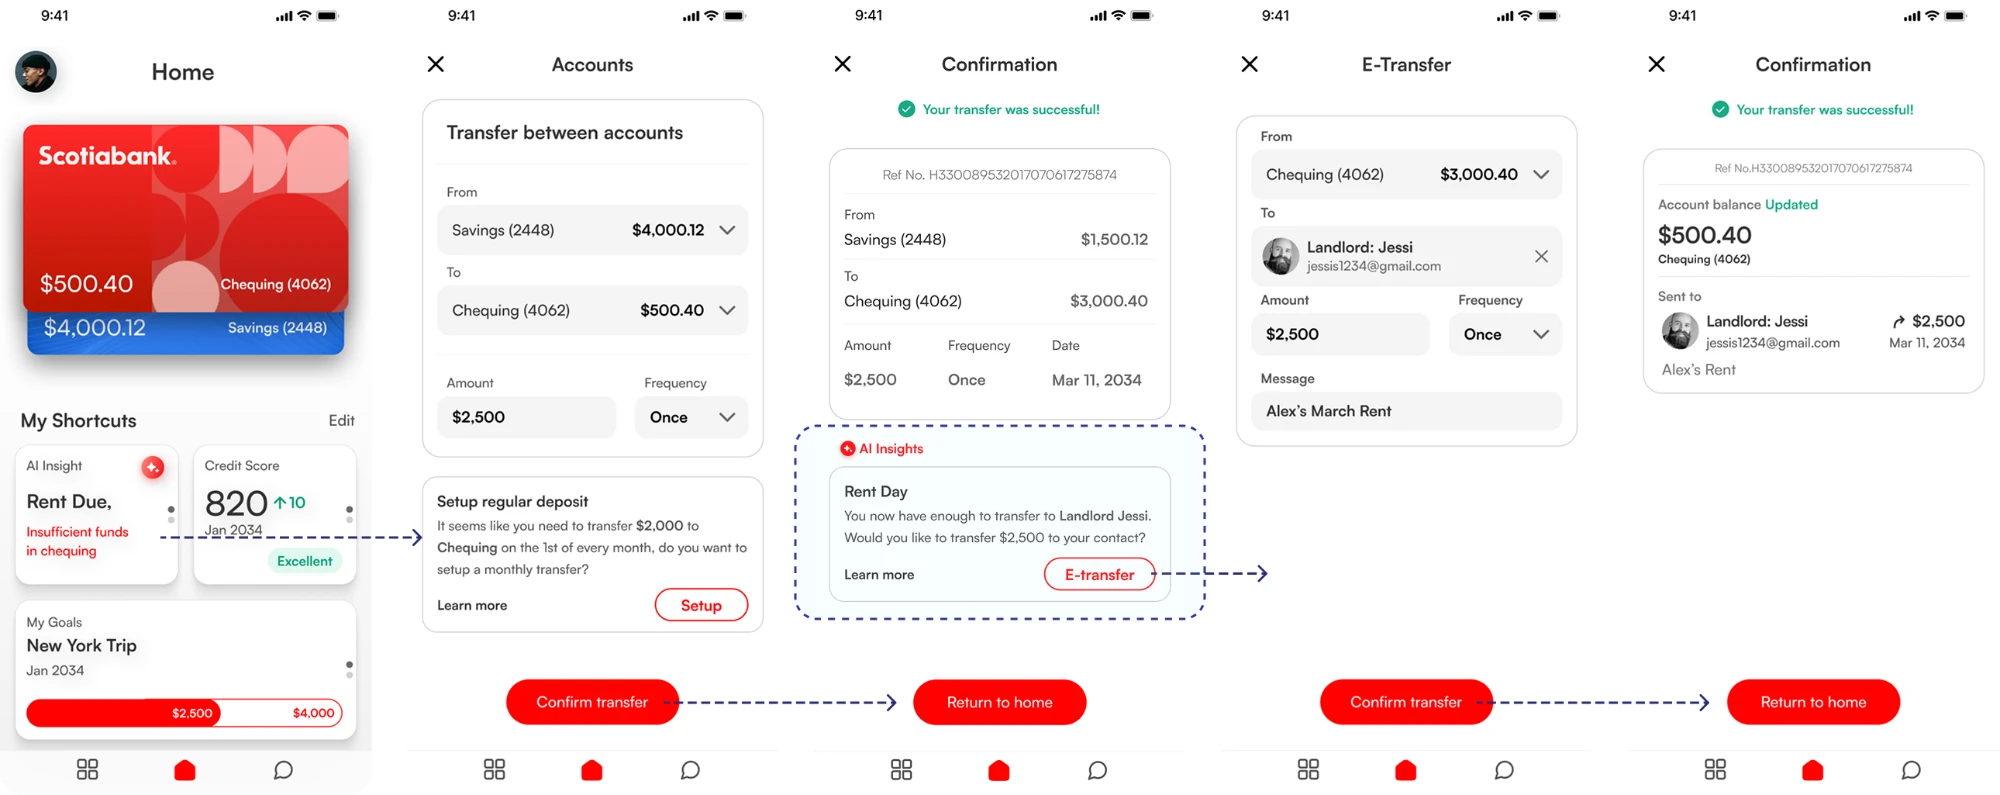
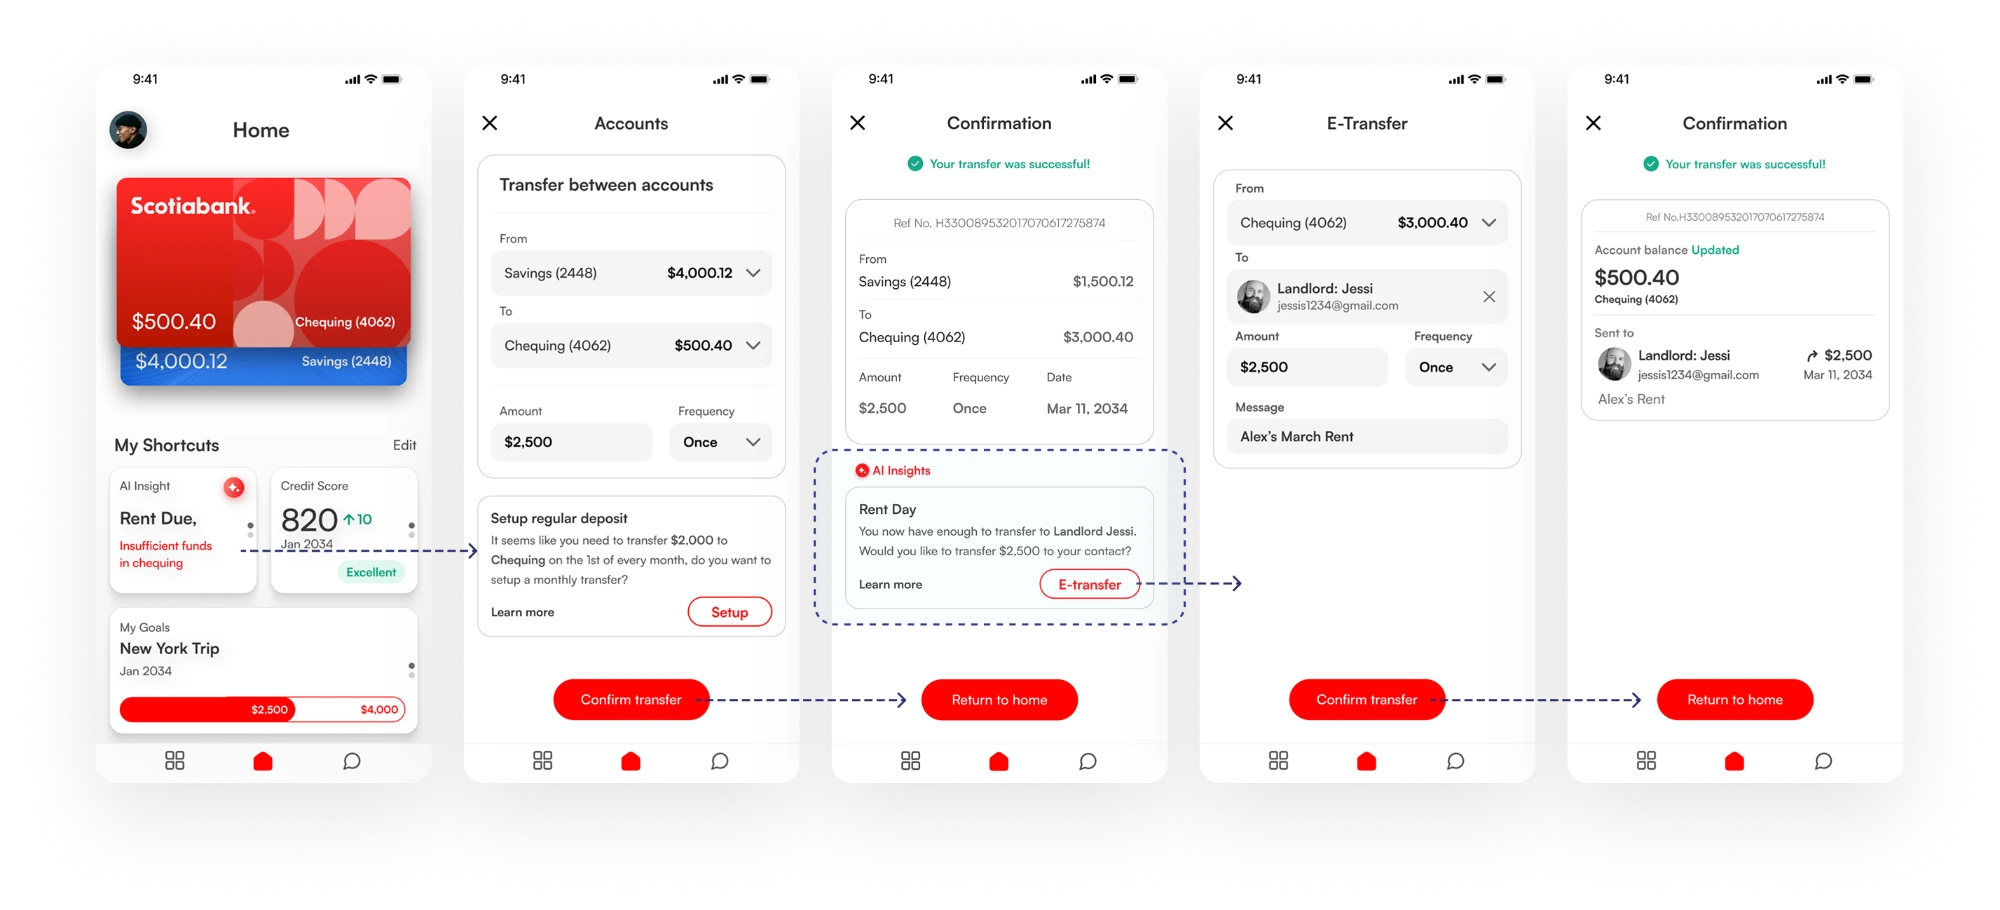
Scotia Call 03 after: updated flow image

diff --git a/scotia/index.html b/scotia/index.html
@@ -642,7 +642,7 @@ h3{font-size:clamp(24px,2.6vw,32px);font-weight:600;line-height:1.12;letter-spac
         <div class="ba-why"><span class="k">Call 03</span><h3>Merge the flows, keep the confirmation.</h3></div>
         <div class="ba-row wide">
           <div class="ba-box b"><div class="t"><span class="lab">BEFORE</span><p class="cap">8 steps, no confirmation.<br>High risk, too black-box.</p></div><div class="shot"><img src="../images/scotia/call3-before.jpg" alt="Today's transfer flows: Transfer between accounts and Interac e-Transfer, each a separate multi-screen path from Move money to Confirmation" loading="lazy" width="2000" height="740"></div></div>
-          <div class="ba-box a"><div class="t"><span class="lab">AFTER</span><p class="cap">5 steps. Suggest and pre-fill.</p></div><div class="shot"><img src="../images/scotia/call3-after.webp" alt="Five-step transfer: the home screen shows a Rent Day AI insight, the e-Transfer is pre-filled, and a confirmation follows" loading="lazy" width="2000" height="795"></div></div>
+          <div class="ba-box a"><div class="t"><span class="lab">AFTER</span><p class="cap">5 steps. Suggest and pre-fill.</p></div><div class="shot"><img src="../images/scotia/call3-after.webp" alt="Five-step transfer: the home screen shows a Rent Day AI insight, the e-Transfer is pre-filled, and a confirmation follows" loading="lazy" width="2000" height="910"></div></div>
         </div>
       </div>
     </div>
